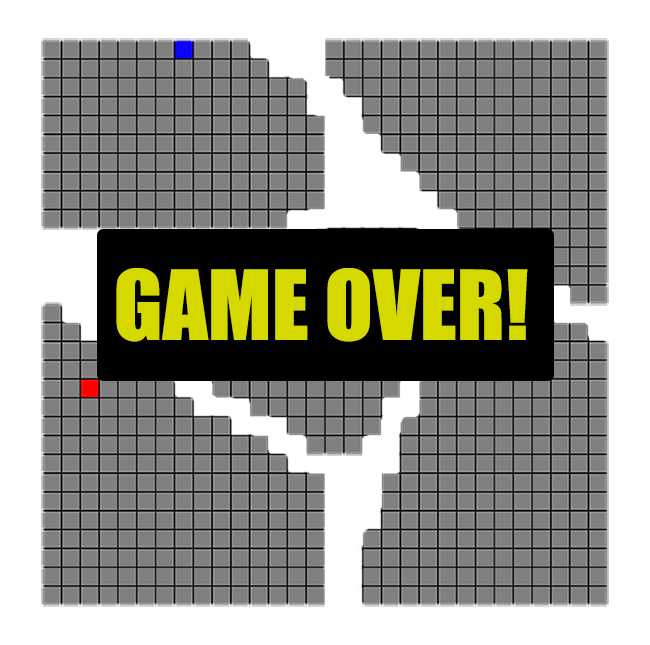
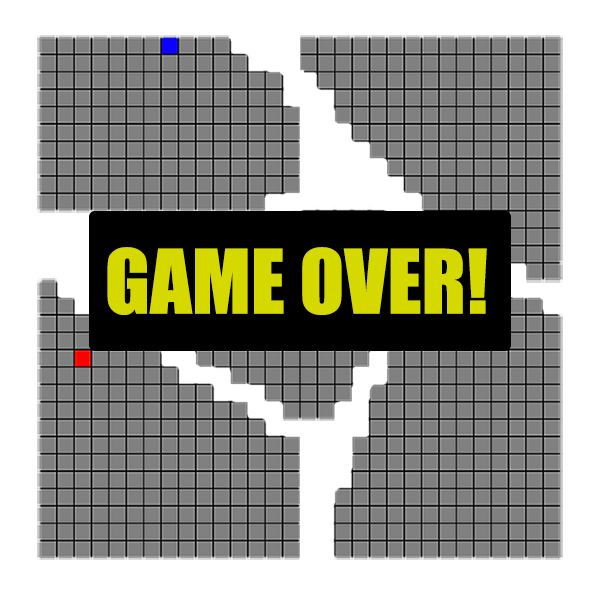
finalizing

diff --git a/app.js b/app.js
@@ -6,12 +6,6 @@ let head = [];
 let snakeBody = [];
 
 
-function reset() {
-    let head = [];
-    let snakeBody = [];
-};
-
-
 // Set up math functions to utilize in the game
 
 // function to evaluate if two points in the grids are the same
@@ -59,14 +53,6 @@ function makeGrid(){
     return;
 }
 
-//set the grid in css
-var r = document.querySelector(':root');
-function getDiv() {
-    var rs = getComputedStyle(r);
-}
-function setDiv() {
-    r.style.setProperty(`--repeat(30, 15px)`, `repeat(${ gridLength }, 15px)` )
-}
 
 
 // define a function that applies a class to the cells  of the array
@@ -95,7 +81,7 @@ function createSnake(){
     return;
 }
 
- //create the apple
+ //create the apple 
 let apple = [];
 function createApple(){
     apple = [getRandomInt(1, gridLength-10), getRandomInt(1, gridLength-10)];
@@ -141,9 +127,6 @@ function initializeGame(){
     nextDirection = directions[nextDirectionIndex]
     snakeBody = [sumArr(snakeStart, nextDirection), snakeStart];
 }
-
-
-
 
 // move: add the following item as a coordinate array to the array 
 //at the beginning and remove the last

diff --git a/style.css b/style.css
@@ -7,9 +7,10 @@ body {
 section {
     display: grid;
     background-color: rgb(2, 2, 2);
+    justify-self: center;
 }
 
-#left{
+#up{
     grid: 1 2;
     justify-self: center;
 }
@@ -31,11 +32,10 @@ section {
 #grid { 
     display: inline-grid; 
     background-color: rgb(5, 5, 5);
-    margin: 10% 25%;
+    margin: 1%;
     padding: 3%;
     border: 2px solid goldenrod;
     z-index: -1;
-    position: center;
 }
 
 
@@ -47,18 +47,7 @@ div {
     grid-template-rows: repeat(30, 15px); 
     margin: 0.5px;
     padding: 0.5px;
-    animation-name: slidein infinite;
 }
-
-@keyframes slidein {
-    from {
-        transform: translateX(0%);
-    }
-  
-    to {
-        transform: translateX(100%);
-    }
-  }
 
 
 #endGame {

diff --git a/index.html b/index.html
@@ -11,7 +11,7 @@
 
 </head>
 <body>
-<section id="left">
+<section id="up">
     <button id="startGame">
     Start the game
     </button>
